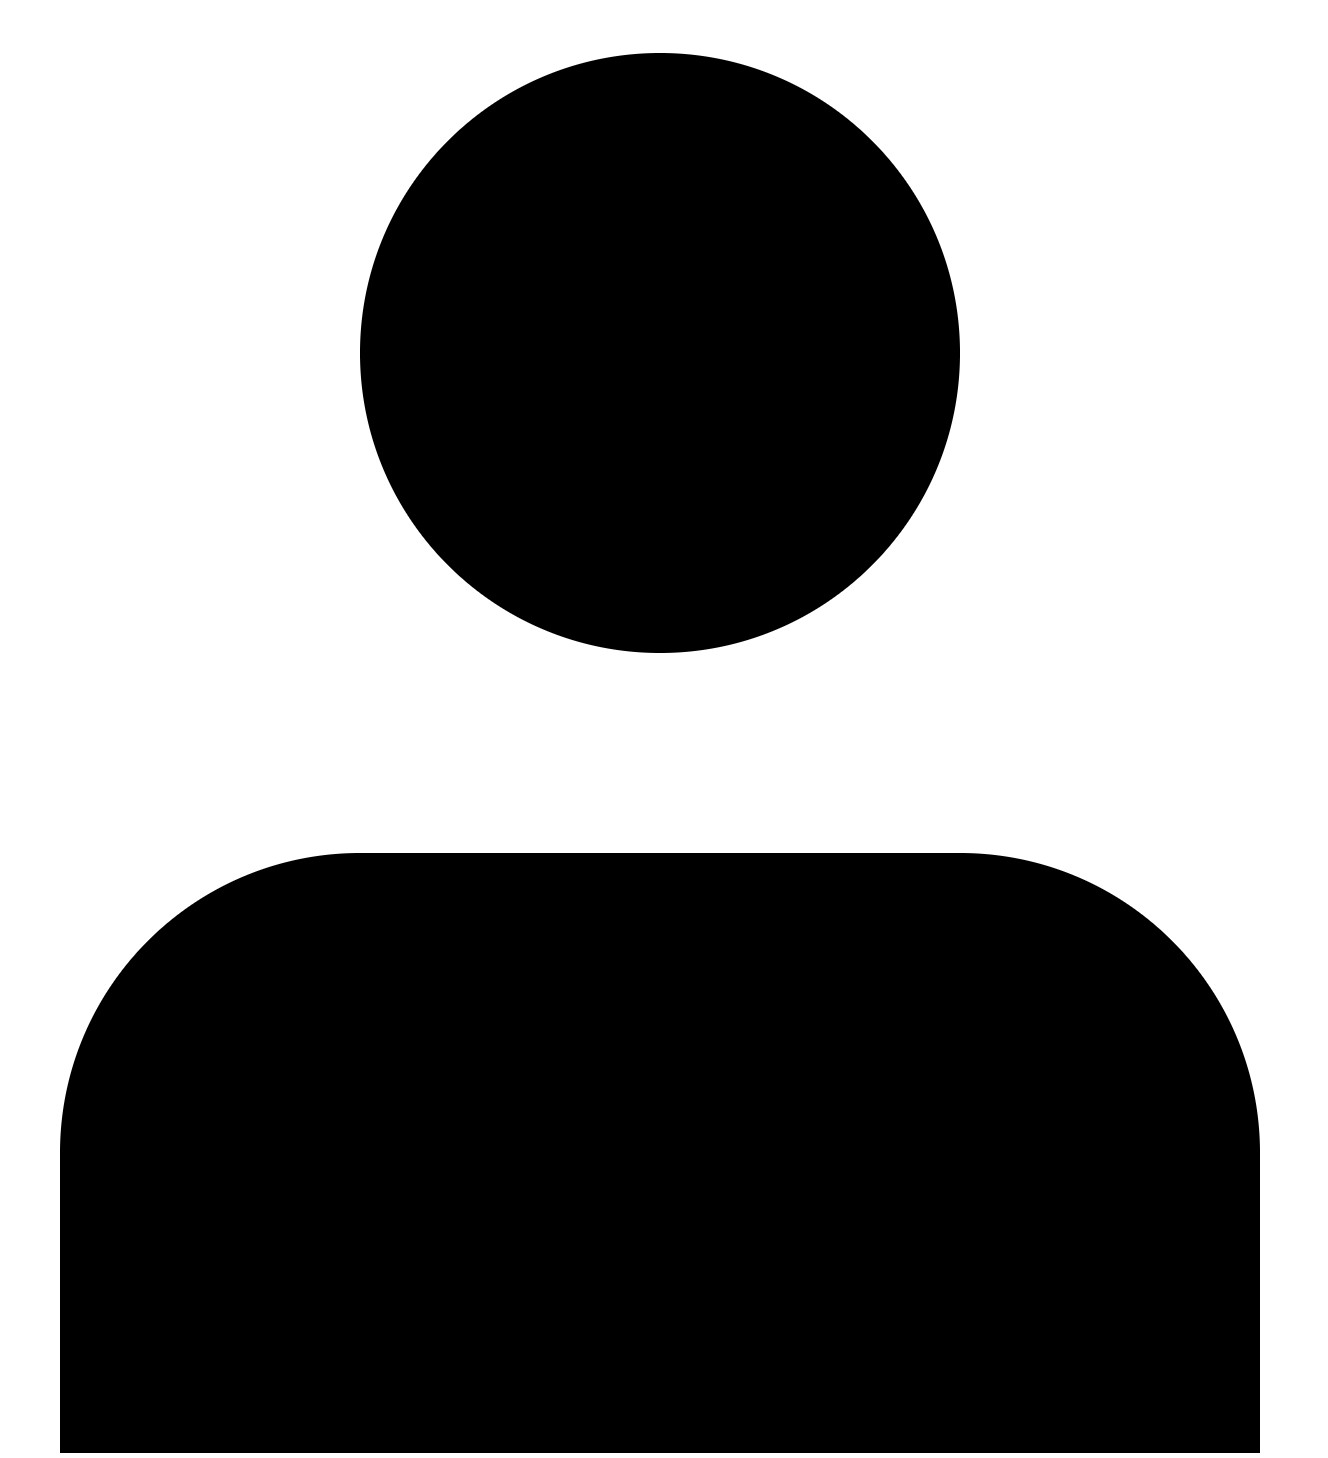
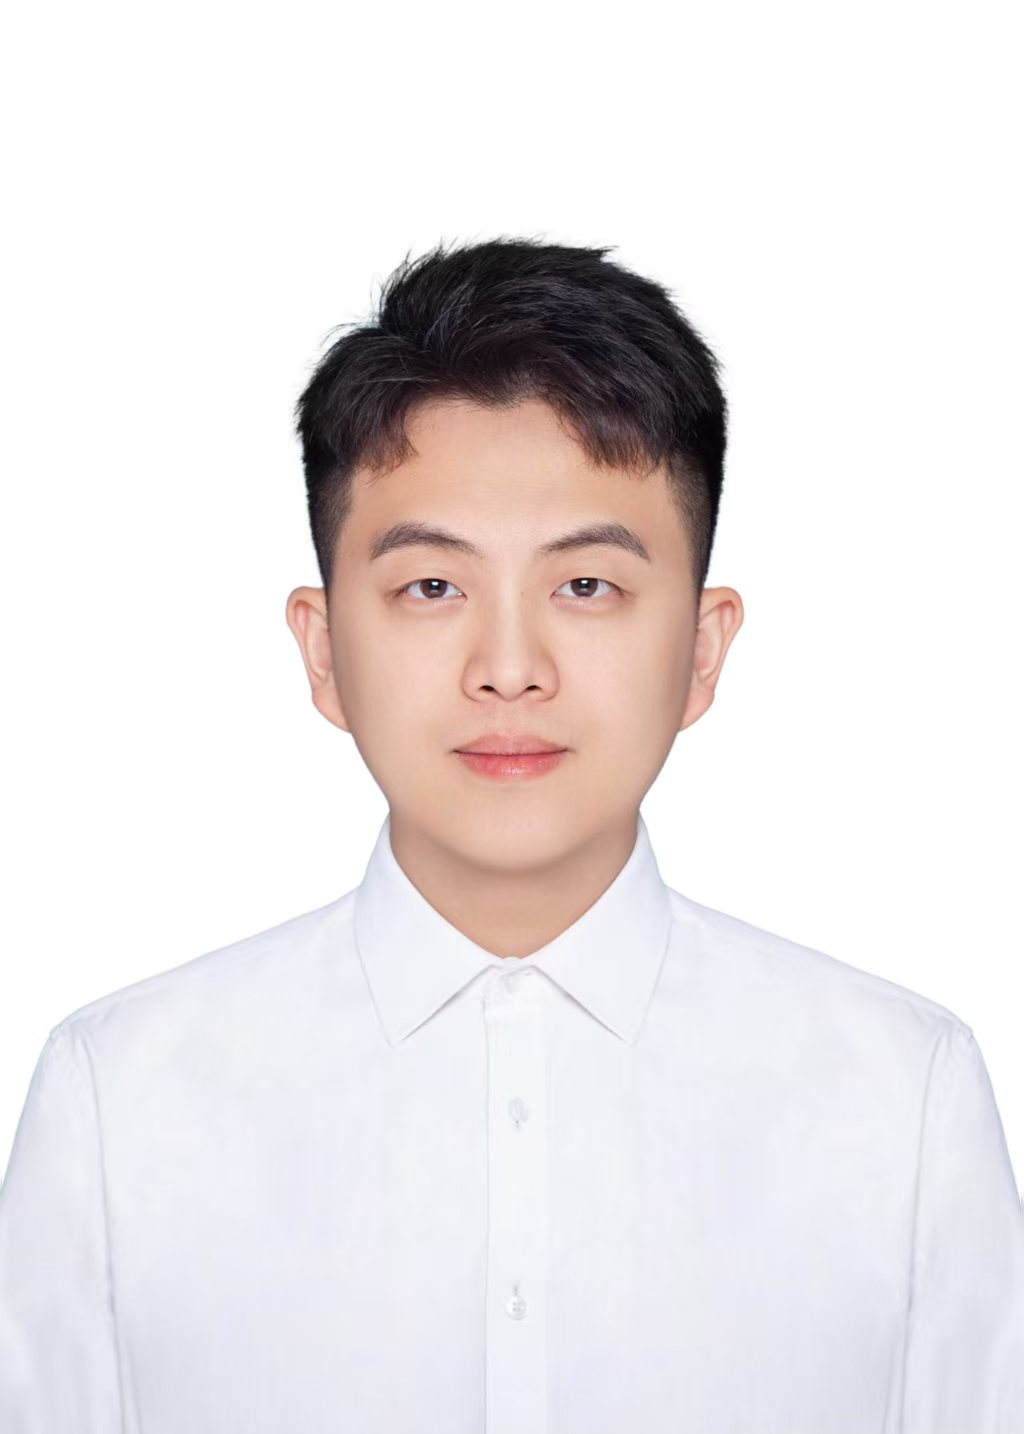
fuyong+yitong revised

diff --git a/content/authors/Fuyong Xu/_index.md b/content/authors/Fuyong Xu/_index.md
@@ -1,0 +1,34 @@
+---
+# Display name
+title: Fuyong Xu
+
+# Full name (for SEO)
+first_name: Fuyong
+last_name: Xu
+sequence_weight: 4
+
+# Username (this should match the folder name)
+authors:
+  - Fuyong Xu
+
+
+# Is this the primary user of the site?
+superuser: false
+
+# Role/position
+role: Senior Process Engineer for Physical Vapor Deposition
+
+
+
+# Enter email to display Gravatar (if Gravatar enabled in Config)
+email: ''
+
+# Highlight the author in author lists? (true/false)
+highlight_name: false
+
+# Organizational groups that you belong to (for People widget)
+#   Set this to `[]` or comment out if you are not using People widget.
+user_groups:
+  - Nanofab Facility
+---
+
